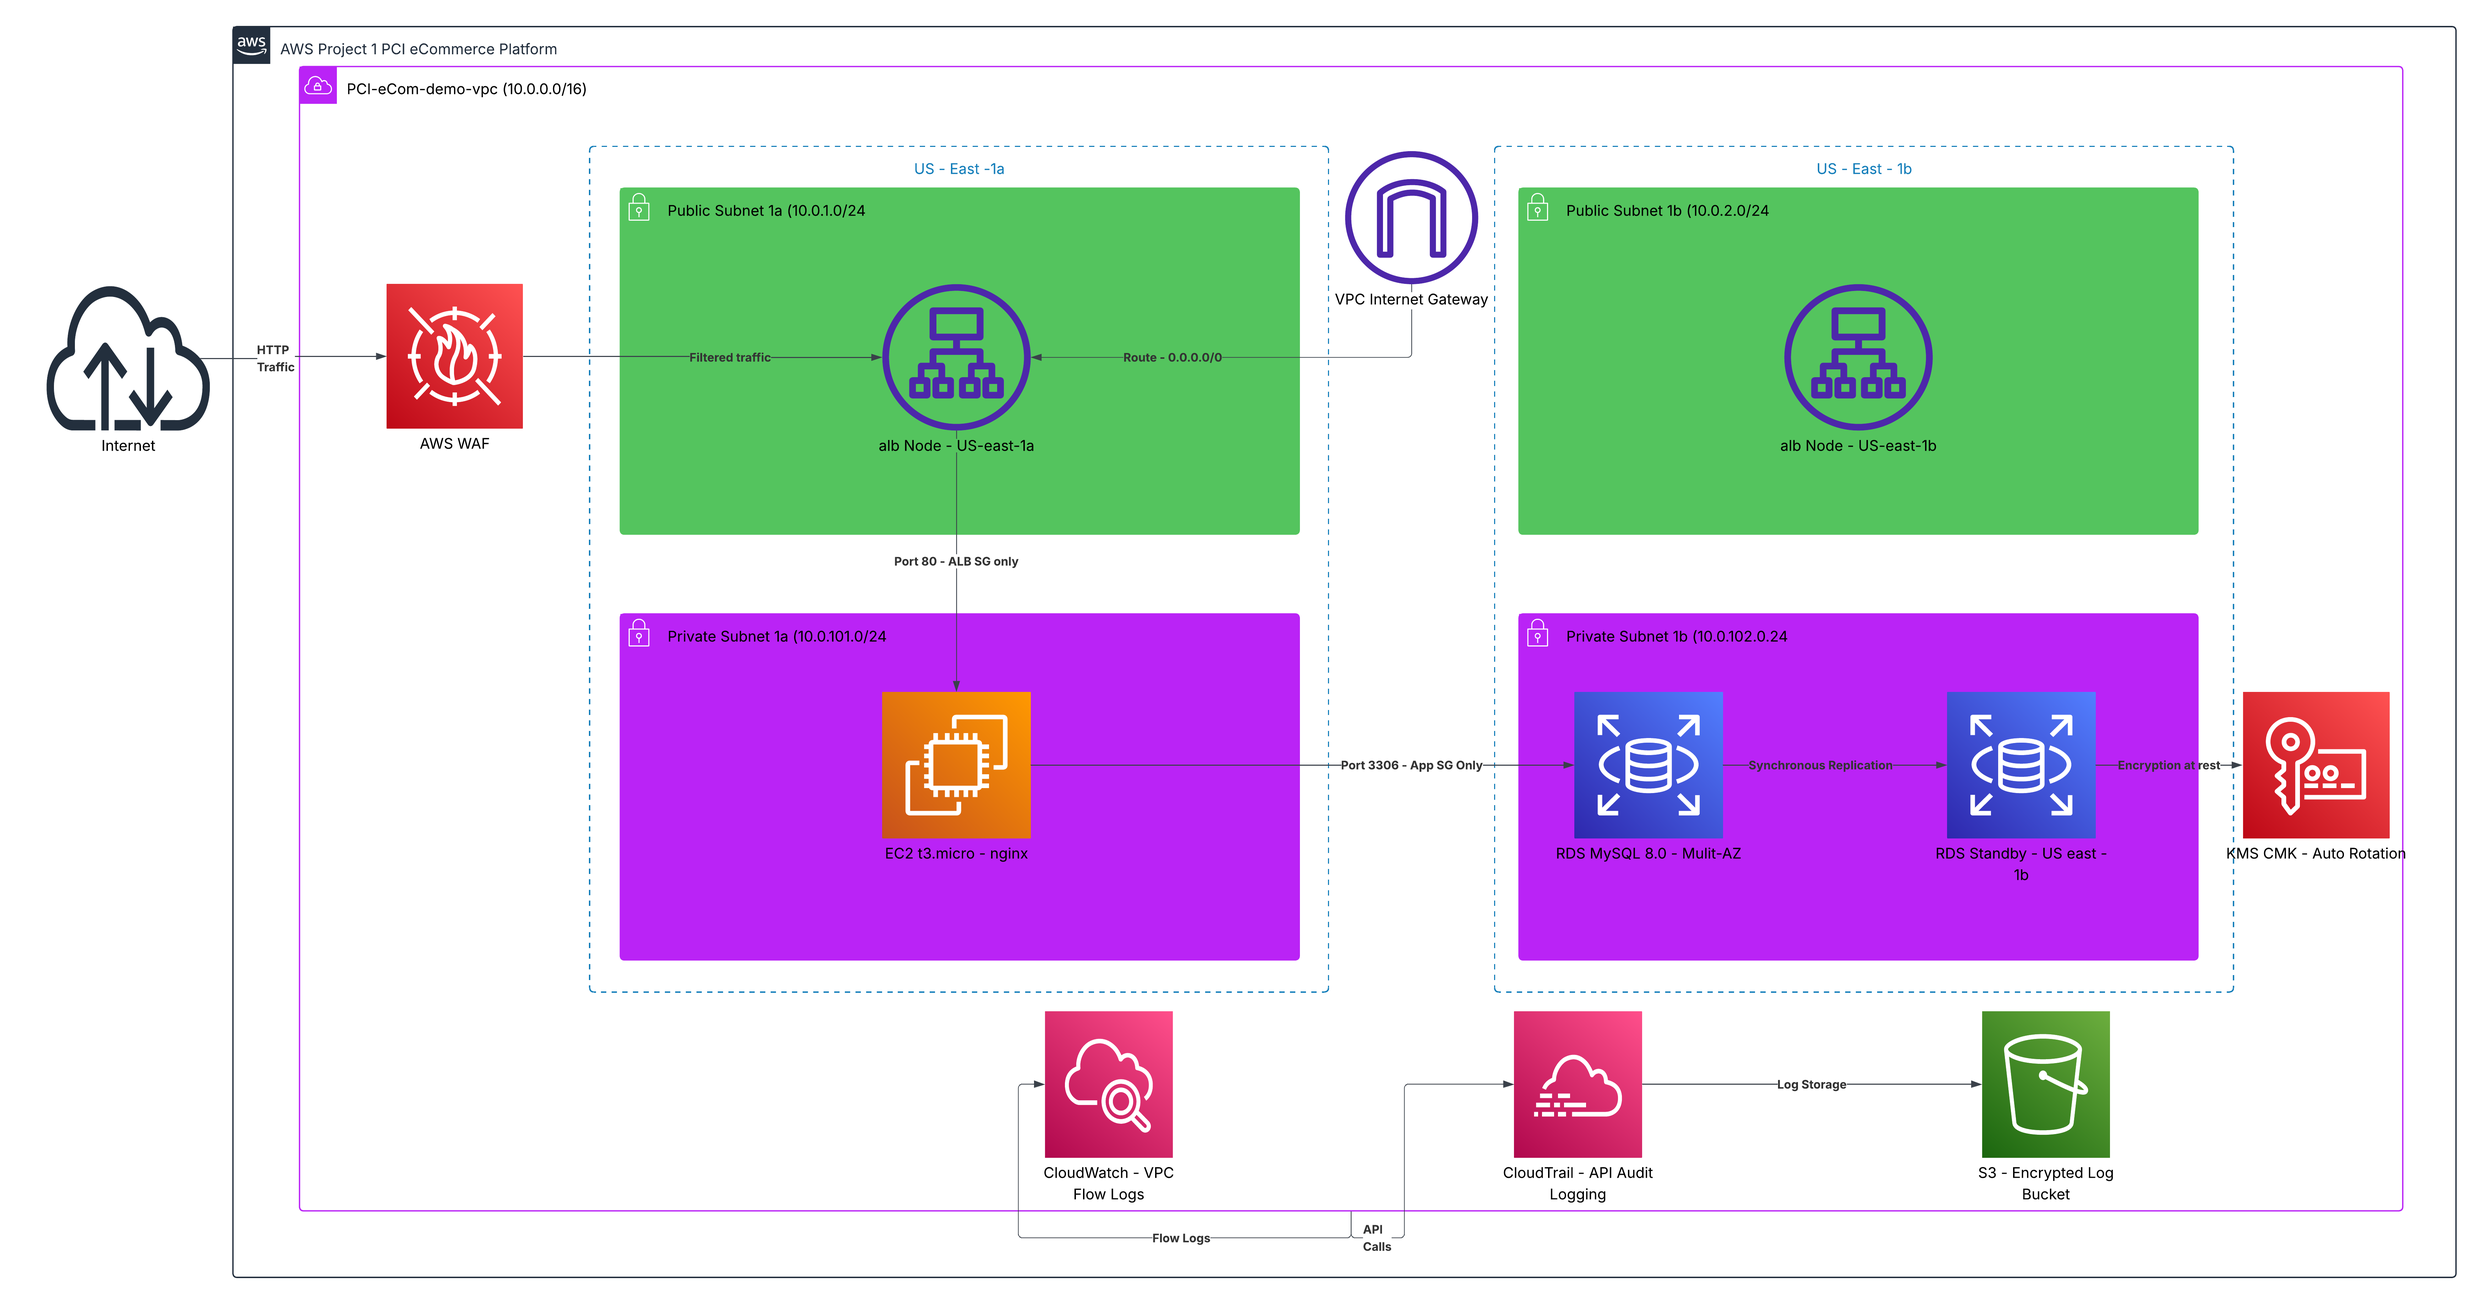
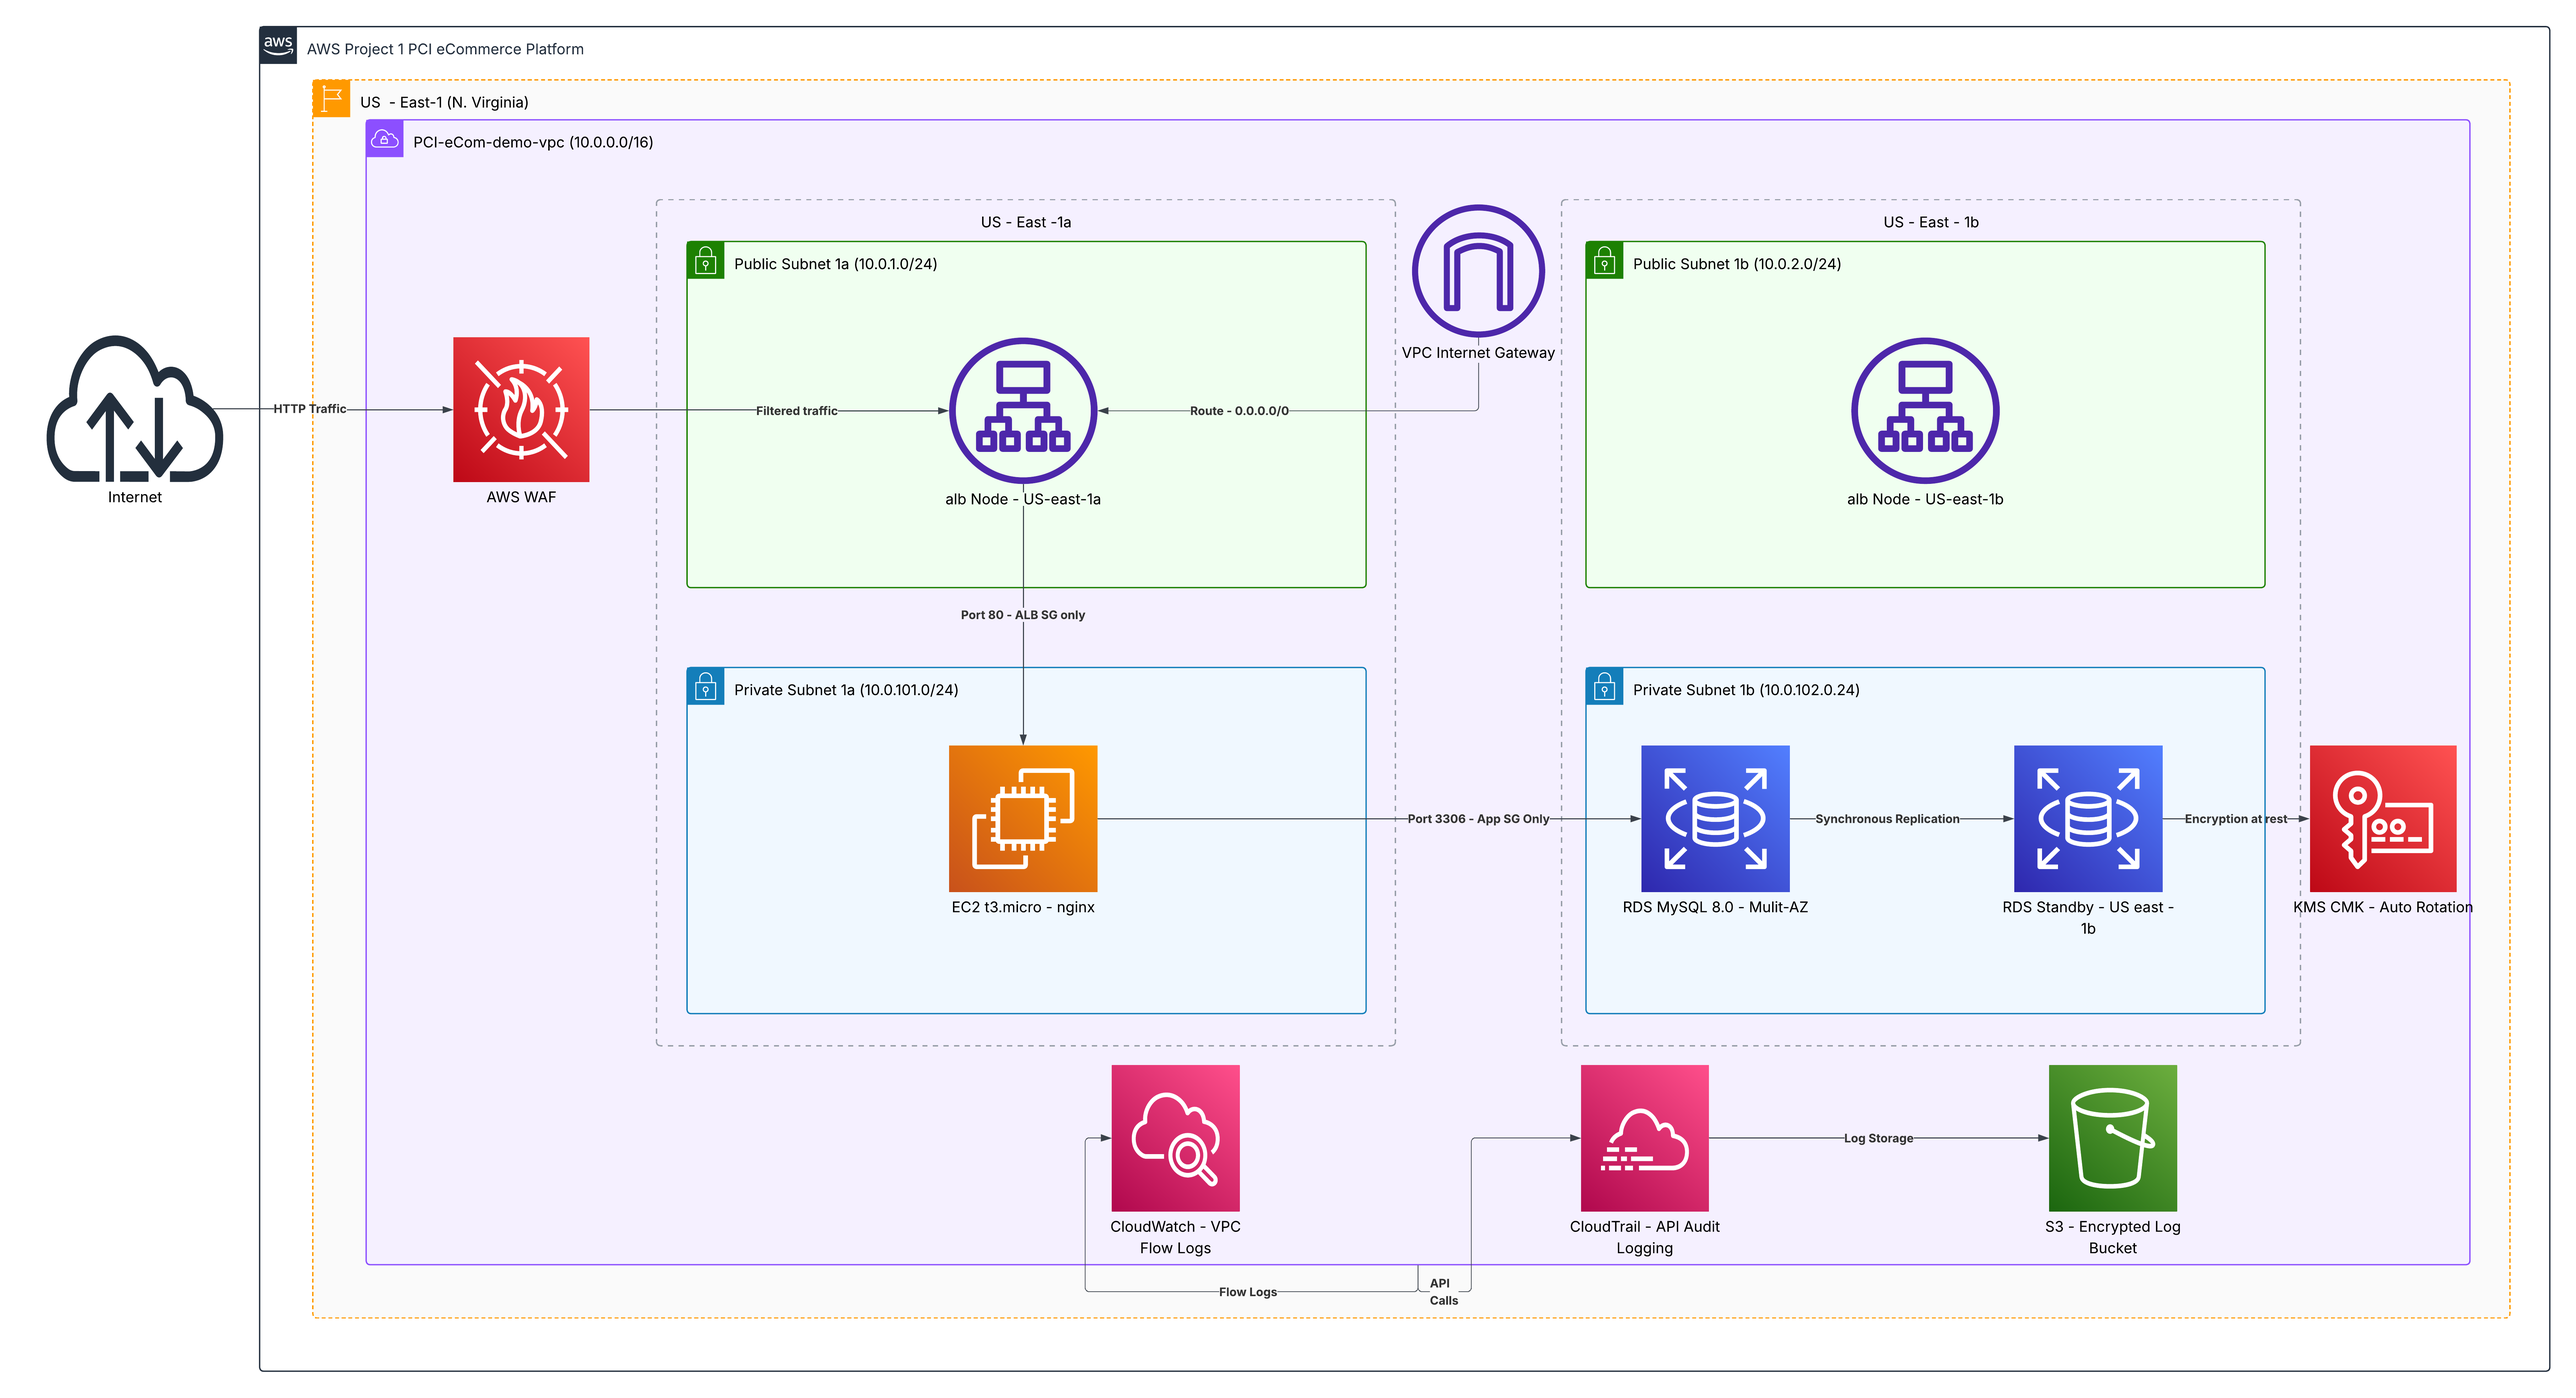
Update architecture diagram to official AWS color standard

diff --git a/docs/screenshots/02-build-log.md b/docs/screenshots/02-build-log.md
@@ -106,7 +106,7 @@
 ## Module 4 — Data Layer (30-data)
 
 **Date:** February 18, 2026
-**Status:** ✅ Complete — destroyed same session
+**Status:** Complete — destroyed same session
 
 ### Resources Created
 | Resource | Name |
@@ -144,7 +144,7 @@ Estimated cost: < $0.10
 ## Module 5 — Logging & Audit Evidence (40-logging-evidence)
 
 **Date:** February 18, 2026
-**Status:** ✅ Complete — destroyed same session
+**Status:** Complete — destroyed same session
 
 ### Resources Created
 | Resource | Name |
